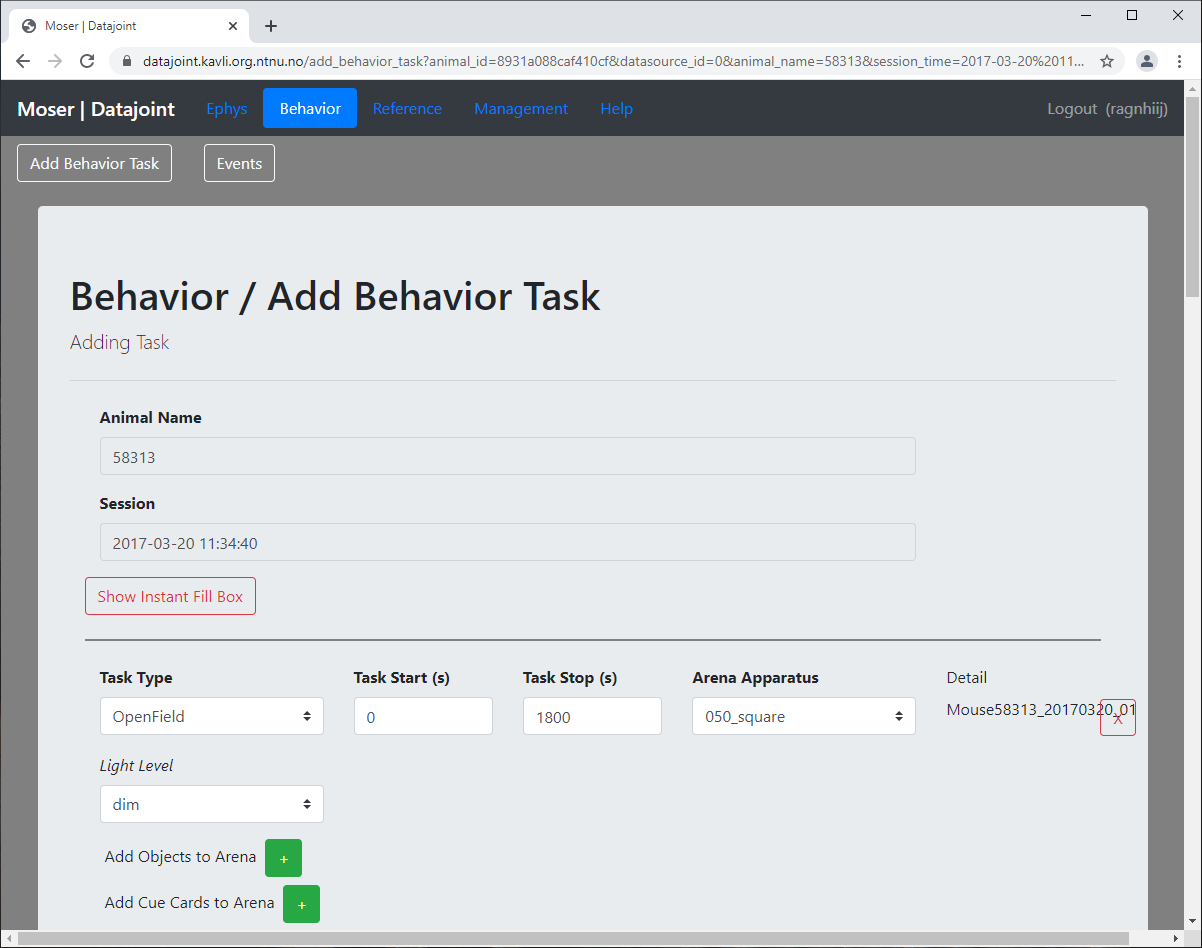
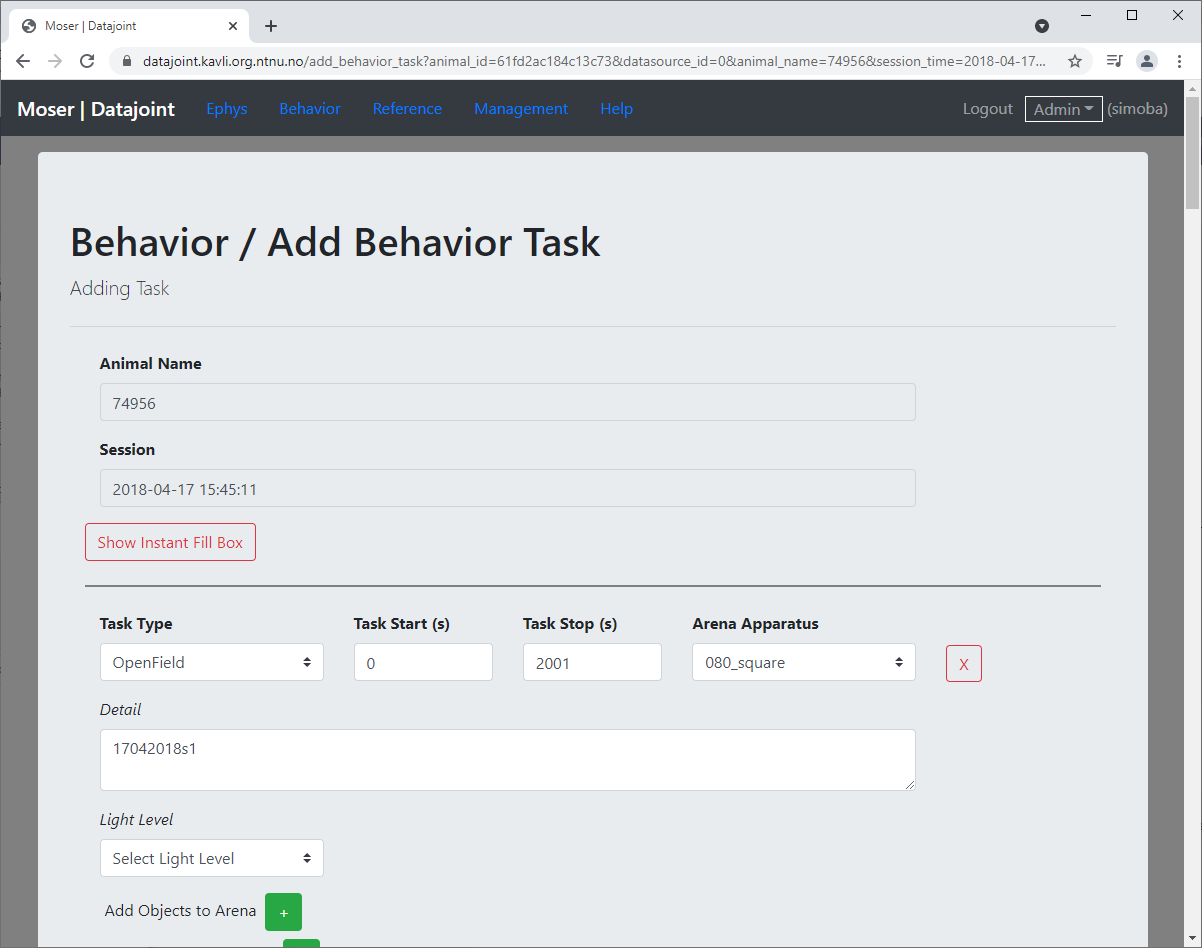
Update webgui ingestion with new task interface

diff --git a/docs/ephys/ingestion_webgui.rst b/docs/ephys/ingestion_webgui.rst
@@ -109,6 +109,8 @@ Once a subject implant has been recorded, the Session Ingestion becomes the main
   
   - Arena(s) and Arena objects, cue-cards etc must be created first if appropriate objects do not already exist. The dropdown menu can be searched by typing - provided you have :ref:`followed naming conventions <Ephys naming arenas>`, it will be easy to find what you need. 
   
+  - *Details* is an optional free-form text entry field, allowing the user to enter a description of the task (for example, the laser power used in a photostimulation session). It defaults to the inferred detail, if any, but may be modified prioer to insertion. 
+  
 .. figure:: /_static/ephys/webgui/add_task_1.PNG
    :alt: Adding behavioural tasks
 
